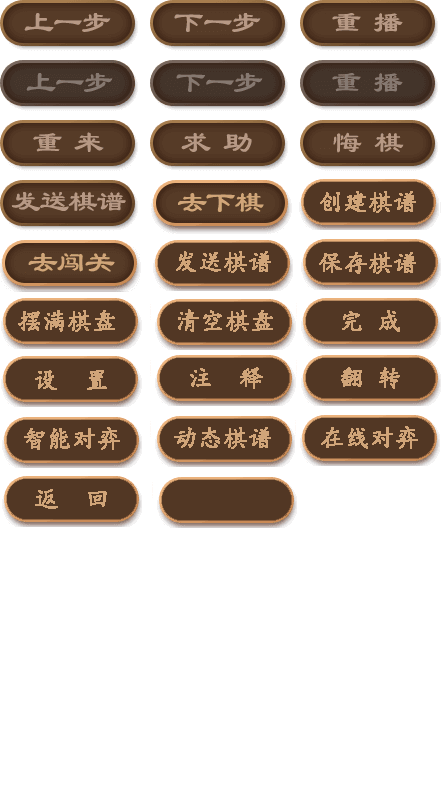
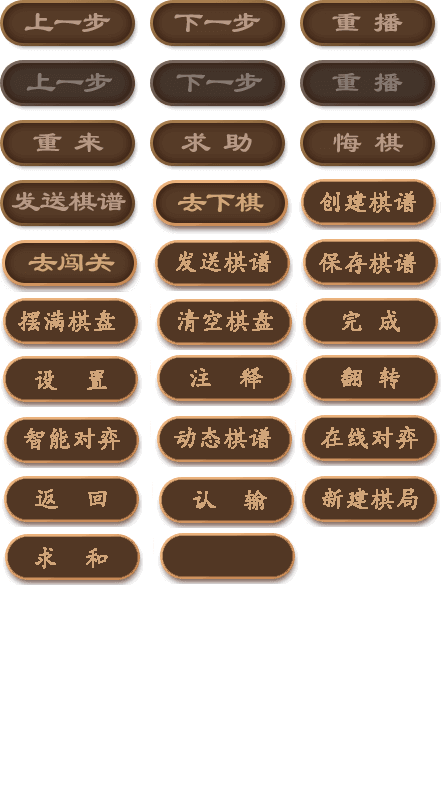
修改在线对弈模块 增加认输按钮，完善逻辑

Changed region(s): [[0.3537, 0.603, 0.678, 0.7538], [0.0, 0.6633, 0.3243, 0.7538], [0.678, 0.5729, 1.0, 0.6633]]

diff --git a/js/init.online.js b/js/init.online.js
@@ -30,58 +30,81 @@ function initWebsocket(){
 		//reconnect();
 	}	
 }
+
 function loadConfig() {	
 	room_id = getUrlParam("roomid");
 	comm.initChess(comm.initMap);
 	play.isPlay = !1,
 	cleanChess();
-	if(!room_id) newgame();
-	else initWebsocket(),setTimeout((function(){ws.send("roomid="+room_id);}),1000);
+	if(!room_id) shownewgame();
+	else shownomal(),initWebsocket(),setTimeout((function(){ws.send("roomid="+room_id);}),1000);
 }
+
+function shownewgame(){
+	$("#newgameBtn").show(),
+	$("#returnBtn1").show(),
+    $("#resignBtn").hide(),
+    $("#regretBtn").hide()
+}
+
+function shownomal(){
+	$("#newgameBtn").hide(),
+	$("#returnBtn1").hide(),
+	$("#returnBtn").hide(),
+    $("#resignBtn").show(),
+    $("#regretBtn").show()
+}
+
 function initLayer(e) {
     initCanvas(e),
     onload(),
     loadConfig();   
-	if(room_id) showFloatTip("分享给朋友邀请他来下棋",2000)	
 }
-newgame = function() {
-	popupDiv('onlinedialog');		
-		$("#onlinedialog").on('click', '.btn_dialog_cancle', function () {          
-					hideDiv('onlinedialog');    
-                }).on('click', '.btn_dialog_ok', function () {                    
-					hideDiv('onlinedialog');    
-					var roomid = Math.round(Math.random()*10000);
-					var href = baseURL+'online.html?roomid='+roomid;	
-					location.href = href;	
-                });		
-},
-restart = function() {
-	popupDiv('restartdialog');		
-		$("#restartdialog").on('click', '.btn_dialog_cancle', function () {          
-					hideDiv('restartdialog');    
-                }).on('click', '.btn_dialog_ok', function () {                    
-					hideDiv('restartdialog');    
-					var href = baseURL+'online.html';	
-					location.href = href;	
-                });		
-	
+
+newgame = function() {	
+	var roomid = Math.round(Math.random()*10000);
+	var href = baseURL+'online.html?roomid='+roomid;	
+	location.href = href;	
 };
+
 onload = function() {
     comm.dot = {
         dots: []
     },
     comm.mans = {},
-    $("#regretBtn").click(play.regret),
-    $("#restartBtn").click(restart),  
-    $("#returnBtn").click(moreBtn);	
+    $("#newgameBtn").click(newgame),
+    $("#resignBtn").click(resignBtn),
+    $("#regretBtn").click(play.regret),  
+    $("#returnBtn1").click(moreBtn);	
     $("#sendBtn").click(comm.send);
+    $("#returnBtn").click(resignBtn);
 };
+
+function resignBtn() {
+    window.location = "online.html"
+}
+
 onMessage = function(d) {
+	if(d.match("close")){
+		$("#resignBtn").hide(),
+		$("#regretBtn").hide(),
+		$("#sendBtn").show()
+		$("#returnBtn").show(),
+		play.showWin();
+		//ws.onclose();
+		//cleanChess();
+		//play.isPlay = !1;
+		//reverseMode = 0;
+		return;
+	}
+	
 	if(d.match("player")){
 		var e = d.split("player "); 
-		if(e[1] == "1") play.my = 1,play.map = comm.arr2Clone(comm.initMap);
-		else if(e[1] == "2") reverseMode = 1,play.my = -1,play.map = comm.arrReverse(comm.initMap);
+		if(e[1] == "1") waitServerPlay = !1,play.my = 1,play.map = comm.arr2Clone(comm.initMap);
+		else if(e[1] == "2") waitServerPlay = !0,reverseMode = 1,play.my = -1,play.map = comm.arrReverse(comm.initMap);
+		return;
 	}
+	
 	if(d.match("isready")){
 		var count = 0;
 		waitingset = setInterval(function(){
@@ -96,14 +119,11 @@ onMessage = function(d) {
 	if(d.match("running")){
 		if(play.isPlay) return;
 		play.isPlay = !0;
-		playinit()
+		onlineinit()
 	}
 	
-	if(d.match("close")){
-		showFloatTip(d);
-		//cleanChess();
-		//play.isPlay = !1;
-		//reverseMode = 0;
+	if(d.match("waiting")){
+		showFloatTip("分享给朋友邀请他来下棋", 2000);
 	}
 	
 	if(d.match("move")){
@@ -124,12 +144,15 @@ onMessage = function(d) {
 		o.length = 4;
 		play.aiPace = o;	
 		play.serverAIPlay();
+		
+		setTimeout((function(){$("#regretBtn").hide();}),1000);
 	}
 	else {
 		play.aiPace = null;	
 	}		 
-}
-playinit = function(a) {
+};
+
+onlineinit = function(a) {
     var a = a || play.map;   
 	play.cMap = comm.arr2Clone(a),
     play.nowMap = play.map,
@@ -142,6 +165,7 @@ playinit = function(a) {
     play.isOffensive = !0,
     play.isFoul = !1,
     play.mans = comm.mans = {},
+	play.hideThink(),
     comm.createMans(a);
     for (var m = 0; m < play.map.length; m++) for (var o = 0; o < play.map[m].length; o++) {
         var n = play.map[m][o];

diff --git a/js/play.js b/js/play.js
@@ -52,16 +52,16 @@ play.addRemoveOnDrop = function(e) {
     removeOnDrops.push(e)
 },
 play.regret = function() {
-    play.pace.length >= 2 ? (regret()) : showFloatTip("还没开始下棋呢")
+    play.pace.length >= 1 ? (regret()) : showFloatTip("还没开始下棋呢")
 },
 play.clickCanvas = function(e) {
     if (play.isAnimating) return ! 1;
     if (!play.isPlay) return ! 1;
+	if(waitServerPlay) return ! 1;
     var a = play.getClickMan(e),
     m = play.getClickPoint(e),
     o = m.x,
     n = m.y;
-	if(waitServerPlay) return;
     a ? play.clickMan(a, o, n) : play.clickPoint(o, n),
     play.isFoul = play.checkFoul()
 },
@@ -143,6 +143,7 @@ play.clickPoint = function(e, a) {
     }
 },
 play.showThink = function() {
+	room_id = getUrlParam("roomid");
 	room_id ? ( play.my == -1 ? $("#AIThink").text("红方思考中。。。") : $("#AIThink").text("黑方思考中。。。") ) : ( movesIndex%2 == 0 ? $("#AIThink").text("红方思考中。。。") : $("#AIThink").text("黑方思考中。。。") );
     $("#AIThink").show()
 },

diff --git a/online.html b/online.html
@@ -152,10 +152,12 @@
 	<div id="chessBox">
 		<div id="btnBox">
 			<div id="mode1">
-				<input type="button" id="restartBtn" class="btnBase restartBtn">
-				<input type="button" id="regretBtn" class="btnBase regretBtn">
-				<input type="button" id="sendBtn" value="">
-				<input type="button" id="returnBtn" value="">
+				<input type="button" id="newgameBtn" class="btnBase newgameBtn">
+				<input type="button" id="resignBtn" class="btnBase resignBtn" style="display: none;">
+				<input type="button" id="regretBtn" class="btnBase regretBtn" style="display: none;">
+				<input type="button" id="sendBtn" value="" style="display: none;">
+				<input type="button" id="returnBtn" value="" style="display: none;">
+				<input type="button" id="returnBtn1" value="" style="display: none;">
 			</div>			
 		</div>
 	</div>

diff --git a/css/chess.css b/css/chess.css
@@ -6,6 +6,8 @@
 #playmode{margin: auto ;width:100%;text-align: center;color: #BFA28A;font-size: x-large;z-index: 555;top: 5%;position:absolute;display: none;}
 #AIThink{margin: auto ;width:100%;text-align: center;color: #BFA28A;font-size: x-large;z-index: 555;top: 9%;position:absolute;display: none;}
 .btnBase{width:141px;height:52px;border-style:none;background-color: transparent;}
+.newgameBtn{background: url("../assets/images/b2.png") no-repeat -300px -477px;}
+.resignBtn{background: url("../assets/images/b2.png") no-repeat -158px -477px;}
 .restartBtn{background: url("../assets/images/a.png") no-repeat 0px -120px;}
 .regretBtn{background: url("../assets/images/a.png") no-repeat -300px -120px;}
 .regretBtnDisable{display: none;}

diff --git a/js/settings.js b/js/settings.js
@@ -8,7 +8,6 @@ var mode = 1;
 var playmode = 1;
 var file,level_id = -1;
 var chapterTitle = '';
-
 var REPLAY_GET_URL = baseURL+'/save/';
 var REPLAY_SAVE_URL = REPLAY_GET_URL;	
 
